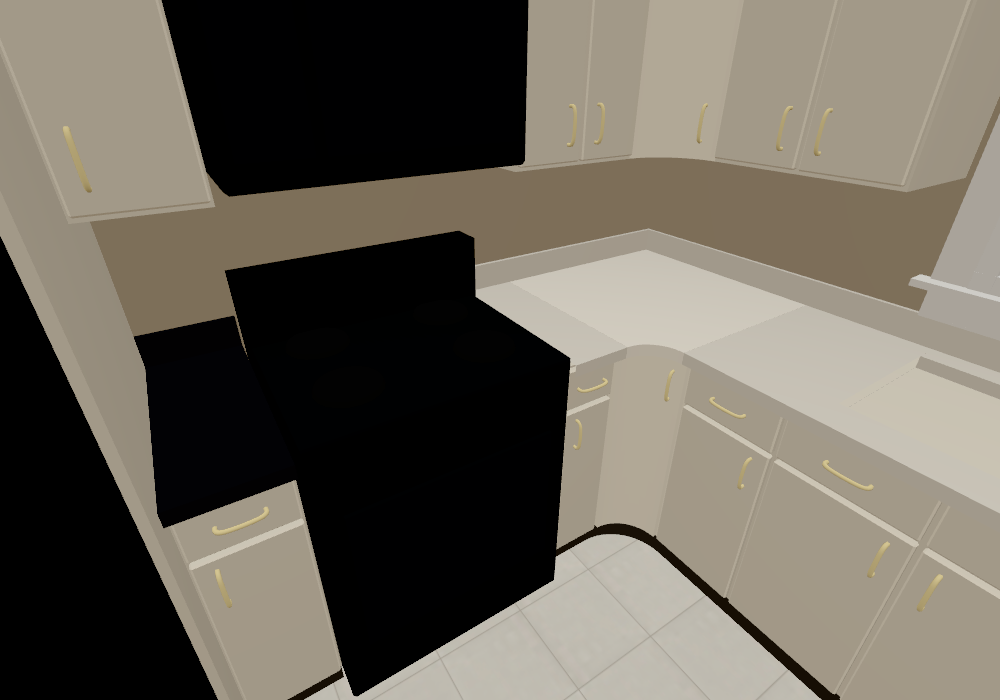
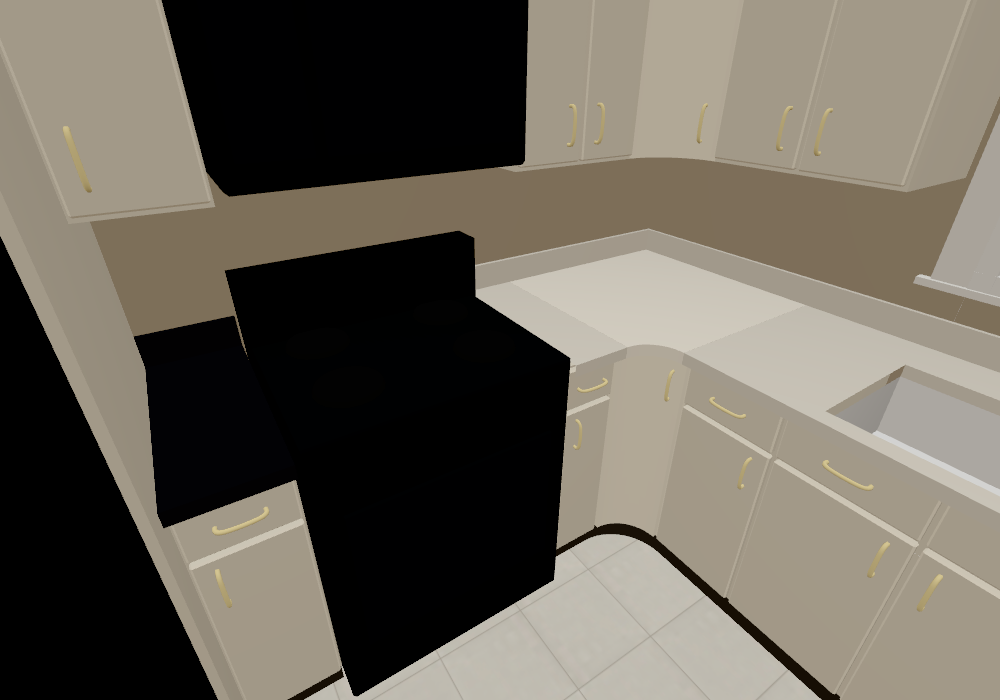
Kitchen sink: narrow stool, no apron over the counter; sink and faucet forward
The window over the sink (sill 8" over the counter) had the full stool and
apron, and the faucet stood in them. Windows flagged overCounter get no apron
and a stool only 0.1 past the wall face (it's the only window within a foot of
a countertop). The basin moves forward (N+0.6 to N+1.95, 0.18 of counter in
front of it, its front at the cabinet front) and the faucet base to N+0.42,
clear of the stool, casing, glass and backsplash. The sink base no longer
draws its top face, which capped the basin under the counter cut-out.

Changed region(s): [[0.806, 0.51, 1.0, 0.72], [0.899, 0.39, 1.0, 0.48]]

diff --git a/js/house.js b/js/house.js
@@ -423,14 +423,15 @@ function windowUnit(b, glass, w, op, sliders) {
       glass.push({ pts: [P(s0 + sash, d, y0 + sash), P(s1 - sash, d, y0 + sash), P(s1 - sash, d, y1 - sash), P(s0 + sash, d, y1 - sash)], n: wn(alongX, inSide) });
     }
   }
-  // interior casing, stool and apron (cw: narrower casing that stops at a bow window's joints)
+  // interior casing, stool and apron (cw: narrower casing that stops at a bow window's joints). Over a
+  // countertop (sill within a foot of it) there's no apron and only a narrow stool: the backsplash is below
   const o0 = inSide * t / 2, o1 = inSide * (t / 2 + 0.055), W = 0.29;
   const [W0, W1] = op.cw || [W, W], j0 = W0 < W, j1 = W1 < W;
   casingBox(b, alongX, c, op.a0 - W0, op.a0, op.b0, op.b1 + W, o0, o1, inSide);
   casingBox(b, alongX, c, op.a1, op.a1 + W1, op.b0, op.b1 + W, o0, o1, inSide);
   casingBox(b, alongX, c, op.a0 - W0 - (j0 ? 0 : 0.03), op.a1 + W1 + (j1 ? 0 : 0.03), op.b1, op.b1 + W + 0.02, o0, o1, inSide);
-  casingBox(b, alongX, c, op.a0 - W0 - (j0 ? 0 : 0.1), op.a1 + W1 + (j1 ? 0 : 0.1), op.b0 - 0.07, op.b0, inSide * (t / 2 - 0.2), inSide * (t / 2 + 0.2), inSide);
-  casingBox(b, alongX, c, op.a0 - W0 + (j0 ? 0 : 0.02), op.a1 + W1 - (j1 ? 0 : 0.02), op.b0 - 0.37, op.b0 - 0.07, o0, o1, inSide);
+  casingBox(b, alongX, c, op.a0 - W0 - (j0 ? 0 : 0.1), op.a1 + W1 + (j1 ? 0 : 0.1), op.b0 - 0.07, op.b0, inSide * (t / 2 - 0.2), inSide * (t / 2 + (op.overCounter ? 0.1 : 0.2)), inSide);
+  if (!op.overCounter) casingBox(b, alongX, c, op.a0 - W0 + (j0 ? 0 : 0.02), op.a1 + W1 - (j1 ? 0 : 0.02), op.b0 - 0.37, op.b0 - 0.07, o0, o1, inSide);
   // raised blinds: slat stack at the head of the opening
   const bs = inSide * (t / 2 - 0.12);
   const p0 = P(op.a0 + 0.05, bs - inSide * 0.08, op.b1 - 0.42), p1 = P(op.a1 - 0.05, bs + inSide * 0.08, op.b1 - 0.02);
@@ -1317,8 +1318,8 @@ function kitchen(b) {
     b.box(W, W + depth - 0.2, F, F + kick, z0, z1, KICK, { skip: ['ny', 'nx', 'py'] });
     cabinetFronts(b, 'x+', W + depth - 0.1, z0, z1, F + kick, cTop - topT, doors, true);
   };
-  const baseNorth = (x0, x1, doors) => {
-    b.box(x0, x1, F + kick, cTop - topT, N, N + depth - 0.1, CAB, { skip: ['ny', 'nz'], collide: true });
+  const baseNorth = (x0, x1, doors, sink) => {        // sink: no top face (the counter covers the rest; the basin shows)
+    b.box(x0, x1, F + kick, cTop - topT, N, N + depth - 0.1, CAB, { skip: ['ny', 'nz', ...(sink ? ['py'] : [])], collide: true });
     b.box(x0, x1, F, F + kick, N, N + depth - 0.2, KICK, { skip: ['ny', 'nz', 'py'] });
     cabinetFronts(b, 'z+', N + depth - 0.1, x0, x1, F + kick, cTop - topT, doors, true);
   };
@@ -1337,14 +1338,14 @@ function kitchen(b) {
   fridge(b, W, 6.8, 9.65, F);
   // north run: base with a drawer, sink base under the window, dishwasher, rounded end cabinet at the stair
   baseNorth(bx, 30.3, 1);
-  baseNorth(30.3, 32.6, 2);
+  baseNorth(30.3, 32.6, 2, true);
   dishwasher(b, 32.6, 34.5, N, F);
   const xEnd = 34.5;
   // countertops (west strip, black top between range and fridge, north run with sink cut-out)
   const z1 = N + depth + 0.08, xf = W + depth + 0.08;
   b.box(W, xf, cTop - topT, cTop, bz, 3.4, TOP, { skip: ['nx', 'nz', 'pz'], dens: 7 });
   b.box(W, xf, cTop - topT, cTop, 5.9, 6.72, 'counterBlack', { skip: ['nx'], dens: 7 });
-  const sx0 = 30.55, sx1 = 32.35, sz0 = N + 0.3, sz1 = N + 1.75;
+  const sx0 = 30.55, sx1 = 32.35, sz0 = N + 0.6, sz1 = N + 1.95;          // basin forward, clear of the window trim
   const topPiece = (x0, x1, za, zb, skip) => b.box(x0, x1, cTop - topT, cTop, za, zb, TOP, { skip, dens: 7 });
   topPiece(bx, sx0, N, z1, ['nz', 'nx', 'px']);
   topPiece(sx1, xEnd, N, z1, ['nz', 'nx', 'px']);
@@ -1361,7 +1362,7 @@ function kitchen(b) {
   b.collider(xEnd, 35.0, F, cTop, N, z1);
   // sink basin + faucet
   sinkInner(b, sx0, sx1, sz0, sz1, cTop - 0.75, cTop - topT);
-  faucet(b, (sx0 + sx1) / 2, cTop, N + 0.12, 's');
+  faucet(b, (sx0 + sx1) / 2, cTop, N + 0.42, 's');
   // backsplash (black over the black top)
   b.box(W, 35.0, cTop, cTop + 0.3, N, N + 0.05, TOP, { skip: ['nz', 'ny'], dens: 6 });
   b.box(W, W + 0.05, cTop, cTop + 0.3, N + 0.05, 3.4, TOP, { skip: ['nx', 'ny'], dens: 6 });

diff --git a/js/layout.js b/js/layout.js
@@ -106,7 +106,7 @@ const loWin = (a0, a1, sill = 4.0, head = 4.0 + 57 / 12) => win(a0, a1, LOW + si
 export const WALLS = [
   // ---- exterior ----
   wx(0, 0, 35, ALL, [loWin(21.7, 23.3), loWin(30.5, 33.5),
-    hiWin(11.85, 14.8), hiWin(16.1, 19.1, 4, 7), hiWin(22.8, 25.9, 4, 7), hiWin(30.6, 33.4, 3.6, 6.6)], EXT),
+    hiWin(11.85, 14.8), hiWin(16.1, 19.1, 4, 7), hiWin(22.8, 25.9, 4, 7), hiWin(30.6, 33.4, 3.6, 6.6, { overCounter: true })], EXT),   // kitchen sink window: sill 8" over the counter
   wz(0, 0, GARAGE_Z, ALL, [hiWin(8.3, 11.5), hiWin(14.9, 18.2)], EXT),
   wx(GARAGE_Z, 0, 20.75, ALL, [open(1.6, 10.2, 0, 7, { garageDoor: 'gd1' }), open(10.8, 19.4, 0, 7, { garageDoor: 'gd2' }),
     hiWin(4.55, 7.35), hiWin(13.6, 16.4)], EXT),
